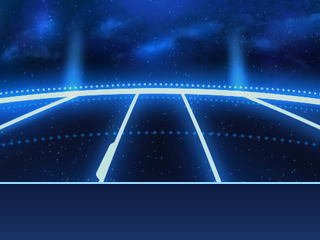
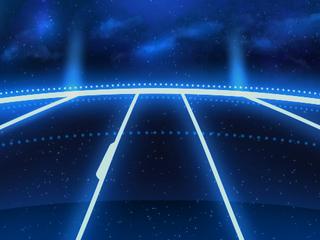
feat: main menu also uses the plain star-stage title_bg
title_bg.png is now the plain hud_new_title_BG star stage with no baked
icon bar (byte-identical to the pre-2026-10-21 backdrop, mean diff 0.00),
so the Main Menu and Splash share one calm background. The temporary
splash_bg.png / splashBg() split is folded back: drawSplash and
drawMainMenu both load titleBg(), and the bar code plus BAR_H are gone
from the prep script.

docs/PROJECT_STATUS.md updated. Build passes the CLDC gate; 41 suites /
4344 checks green; verify_fullgame_build PASS (assets=189).

Changed region(s): [[0.0, 0.7583, 1.0, 1.0], [0.0625, 0.8458, 0.125, 0.875]]

diff --git a/tools/prepare_title_menu_assets.py b/tools/prepare_title_menu_assets.py
@@ -72,7 +72,6 @@ POS_Y_SCALE = 0.588
 # Gura sits a touch right of her neighbours, so nudge her left a little.
 MANUAL_DX = {42: -8}
 
-BAR_H = 58          # baked dark icon bar height at the bottom of title_bg
 LOGO_W = 118        # displayed logo width
 LOGO_Y = 2          # logo top
 
@@ -87,15 +86,10 @@ def load_title_sprite(name):
 
 
 def bake_background():
-    """Star-stage backdrop taken straight from the reference game (hud_new_title_BG),
-    scaled to fill 320x240 and centre-cropped, so the title screen stays calm instead of
-    the procedural rainbow burst.
-
-    Two variants are emitted from the same base:
-      splash_bg.png - the plain stage, used by the Splash (which has no icon bar).
-      title_bg.png  - the same stage with a slim dark icon bar laid over the floor, so the
-                      Main Menu's white bar icons keep their contrast.
-    """
+    """Plain star-stage backdrop taken straight from the reference game (hud_new_title_BG),
+    scaled to fill 320x240 and centre-cropped, so both the Splash and the Main Menu sit on the
+    calm original stage instead of the procedural rainbow burst. No icon bar is baked in: the
+    stage floor is already dark enough (mean luma ~41) to carry the white bar icons."""
     src = Image.open(os.path.join(UNPACKED, "hud_new_title_BG",
                                   "hud_new_title_BG_0.png")).convert("RGB")
     scale = max(SCREEN_W / float(src.size[0]), SCREEN_H / float(src.size[1]))
@@ -105,24 +99,7 @@ def bake_background():
     top = (nh - SCREEN_H) // 2
     base = im.crop((left, top, left + SCREEN_W, top + SCREEN_H)).convert("RGB")
 
-    # Plain stage for the Splash (no icon bar).
-    base.save(os.path.join(OUT, "splash_bg.png"))
-
-    # Slim dark icon bar at the bottom for the Main Menu: a gentle blend toward deep navy
-    # (the stage floor is already dark) plus a bright top edge, matching the reference bar.
-    h = SCREEN_H
-    bar_top = h - BAR_H
-    db = ImageDraw.Draw(base)
-    for yy in range(bar_top, h):
-        t = (yy - bar_top) / float(BAR_H)
-        r = int(12 + 16 * t)
-        g = int(26 + 26 * t)
-        b = int(64 + 40 * t)
-        db.rectangle([0, yy, SCREEN_W, yy + 1], fill=(r, g, b))
-    db.rectangle([0, bar_top, SCREEN_W, bar_top + 1], fill=(150, 214, 250))
-
     base.save(os.path.join(OUT, "title_bg.png"))
-    return bar_top
 
 
 def bake_logo():
@@ -202,11 +179,11 @@ def print_java_table(pos, sizes):
 
 def main():
     ensure_out()
-    bar_top = bake_background()
+    bake_background()
     logo_size = bake_logo()
     sizes = bake_chars()
     pos = compute_positions(sizes)
-    print("background bar_top=%d  logo=%dx%d  chars=%d" % (bar_top, logo_size[0], logo_size[1], len(sizes)))
+    print("logo=%dx%d  chars=%d" % (logo_size[0], logo_size[1], len(sizes)))
     print_java_table(pos, sizes)
 
 

diff --git a/src/java-me-fullgame/me/holojava/fullgame/AssetLibrary.java b/src/java-me-fullgame/me/holojava/fullgame/AssetLibrary.java
@@ -46,7 +46,6 @@ final class AssetLibrary {
     private Image sparkle0;
     private Image sparkle1;
     private Image titleBg;
-    private Image splashBg;
     private Image menuLogoShine;
     private Image[] titleChars;        // 47 roster sprites, pre-scaled, display order
     private Image menuLabel;
@@ -518,16 +517,6 @@ final class AssetLibrary {
     Image titleBg() {
         if (titleBg == null) titleBg = image("/assets/fullgame/ui/title_bg.png");
         return titleBg;
-    }
-
-    /**
-     * Splash-screen backdrop: the same star stage as titleBg() but without the baked dark icon
-     * bar, because the Splash carries no bar. tools/prepare_title_menu_assets.py emits both
-     * variants from one base.
-     */
-    Image splashBg() {
-        if (splashBg == null) splashBg = image("/assets/fullgame/ui/splash_bg.png");
-        return splashBg;
     }
 
     /**

diff --git a/src/java-me-fullgame/me/holojava/fullgame/FullGameCanvas.java b/src/java-me-fullgame/me/holojava/fullgame/FullGameCanvas.java
@@ -969,7 +969,7 @@ public class FullGameCanvas extends GameCanvas implements Runnable {
      * even in a partial build.
      */
     private void drawSplash(Graphics g, int x, int y) {
-        Image bg = assets.splashBg();
+        Image bg = assets.titleBg();
         if (bg != null) {
             g.drawImage(bg, x, y, Graphics.TOP | Graphics.LEFT);
         } else {

diff --git a/docs/PROJECT_STATUS.md b/docs/PROJECT_STATUS.md
@@ -55,7 +55,8 @@ layout. `rm_Title`'s instance origins (from `HoloCure_Unpacked/index/Rooms_Detai
 reference shows, now baked as 47 individual sprites (`title_char_0..46.png`) at `SPRITE_SCALE`,
 each drawn at its own screen spot so it can bob on its own phase (`charBob`, `CAST_X`/`CAST_Y`).
 `menu_cast.png` and its `menuCast()` accessor are gone. The backdrop is the reference game's own
-`hud_new_title_BG` (star stage) scaled to fill 320x240 with a slim dark bar over the floor, in
+`hud_new_title_BG` (star stage) scaled plain to fill 320x240 (no baked icon bar — the stage floor
+is dark enough for the white icons), shared by the Splash and the Main Menu, in
 place of the earlier procedural rainbow burst; the logo is `spr_HoloCureTitle_full` (bob + a
 periodic shine-sweep frame), and the graduated-member sparkles track each sprite's head. Gura is
 hand-nudged 8px left via `MANUAL_DX` in the prep script. All motion still reads `clockMs`.
@@ -63,9 +64,8 @@ hand-nudged 8px left via `MANUAL_DX` in the prep script. All motion still reads 
 draw as normal font strings instead of `digits_white`/`digits_yellow` sprites; `drawDigits` and
 `drawDigitsRightAlign` were deleted. The weapon and skill slot rows were lowered (`WEAPON_SLOT_Y`
 +3 -> +7 under the special bar) so the boxes clear the SP bar; HP, SP and EXP bars are unchanged.
-*Splash backdrop:* the Splash keeps its old plain star-stage (no icon bar) while the Main Menu
-keeps the bar variant — `prepare_title_menu_assets.py` now emits both `splash_bg.png` and
-`title_bg.png` from one `hud_new_title_BG` base, and `drawSplash` loads `splashBg()`.
+*Title backdrop:* both screens load `titleBg()` — the plain star stage, byte-identical to the
+pre-2026-10-21 look; the temporary `splash_bg.png`/`splashBg()` split was folded back in.
 
 **Known follow-ups from the same audit (not yet done):** per-frame allocation in the render
 path, `AssetLibrary.prepareStage` leaking `framesM`, no integrity check over the save record,
